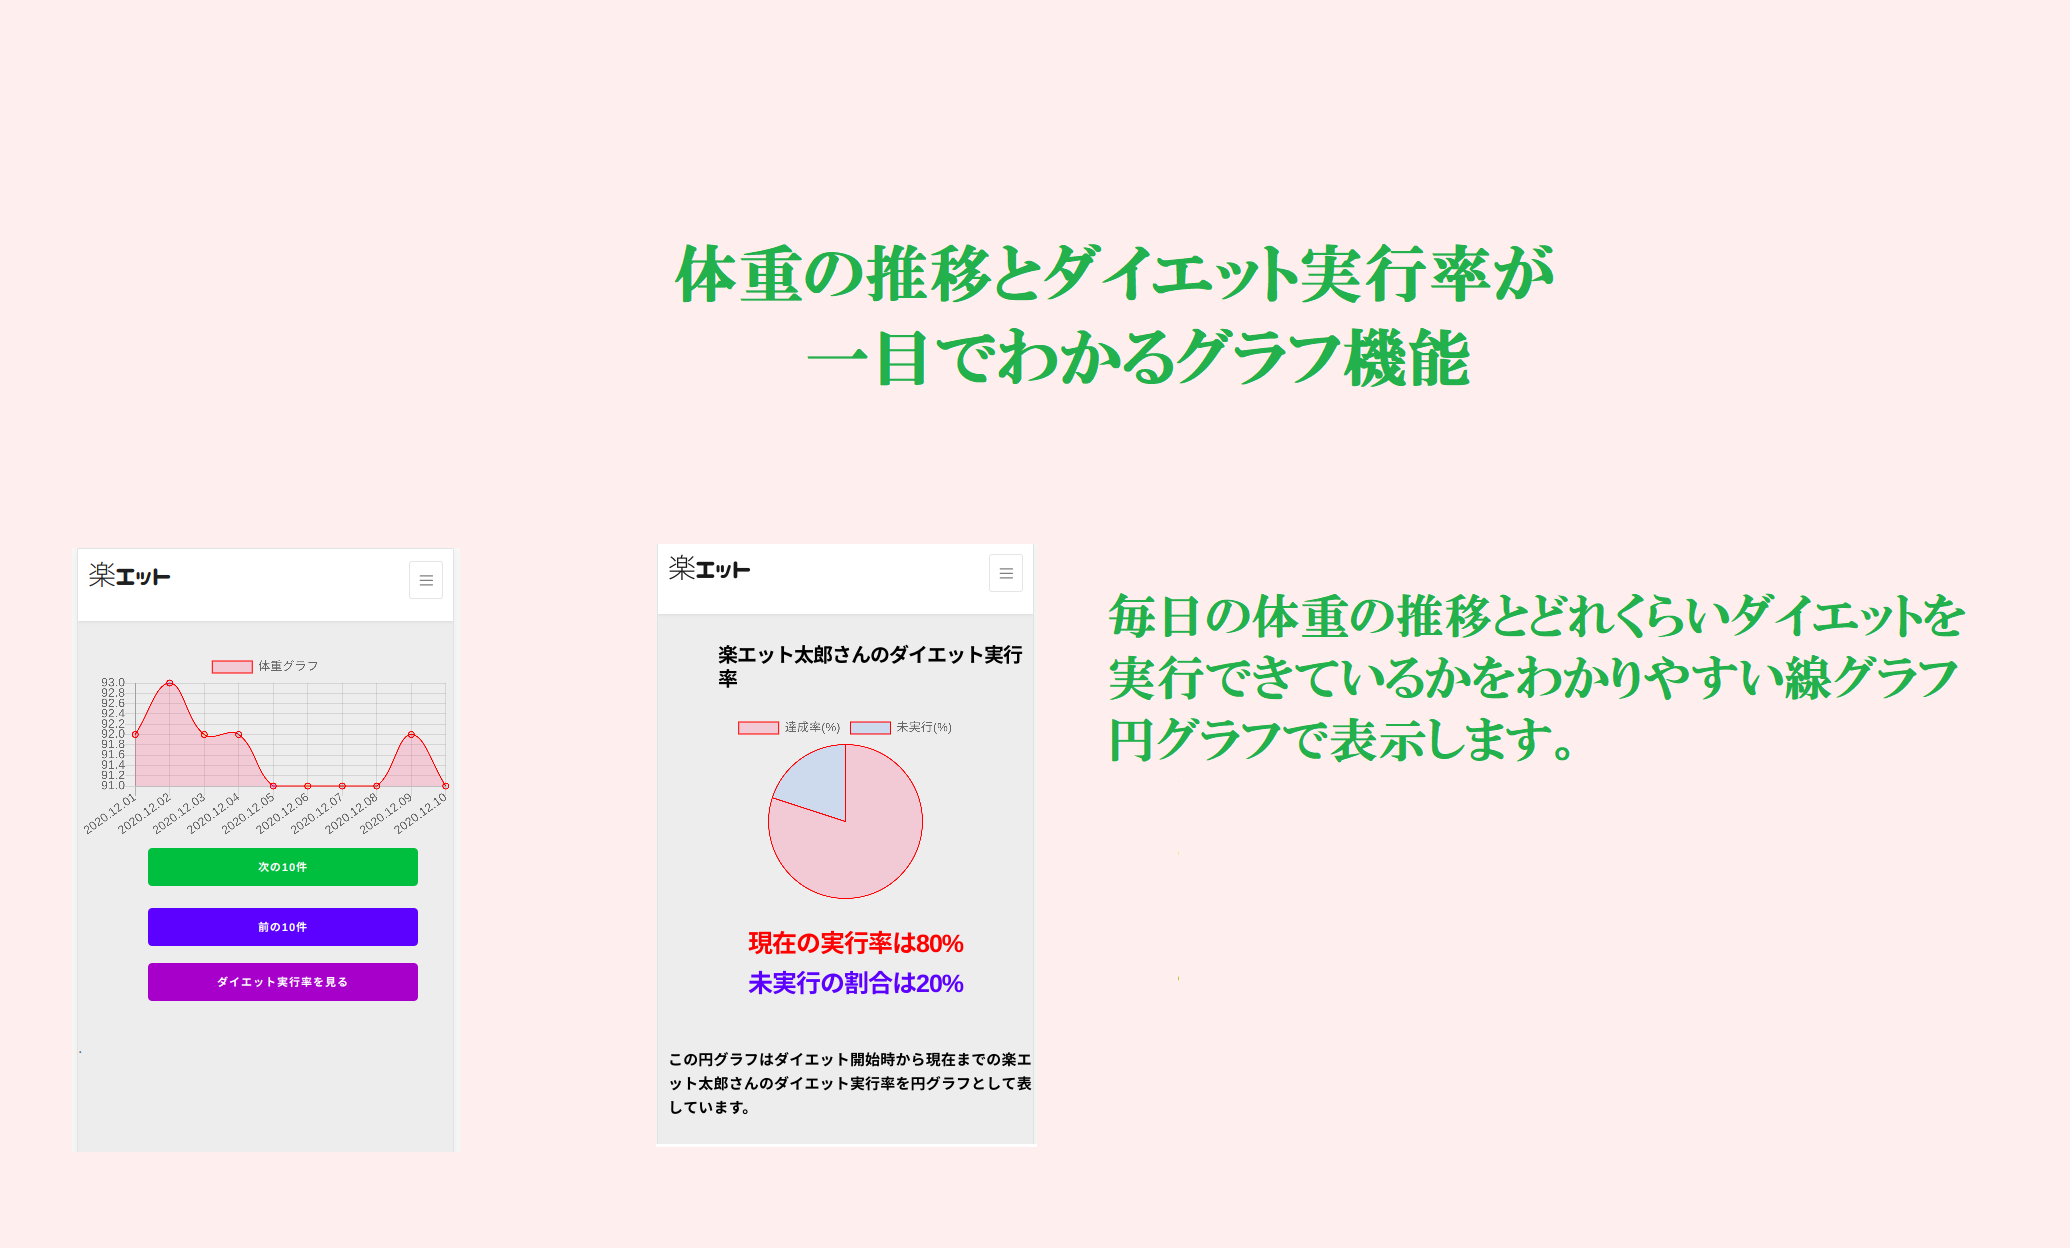
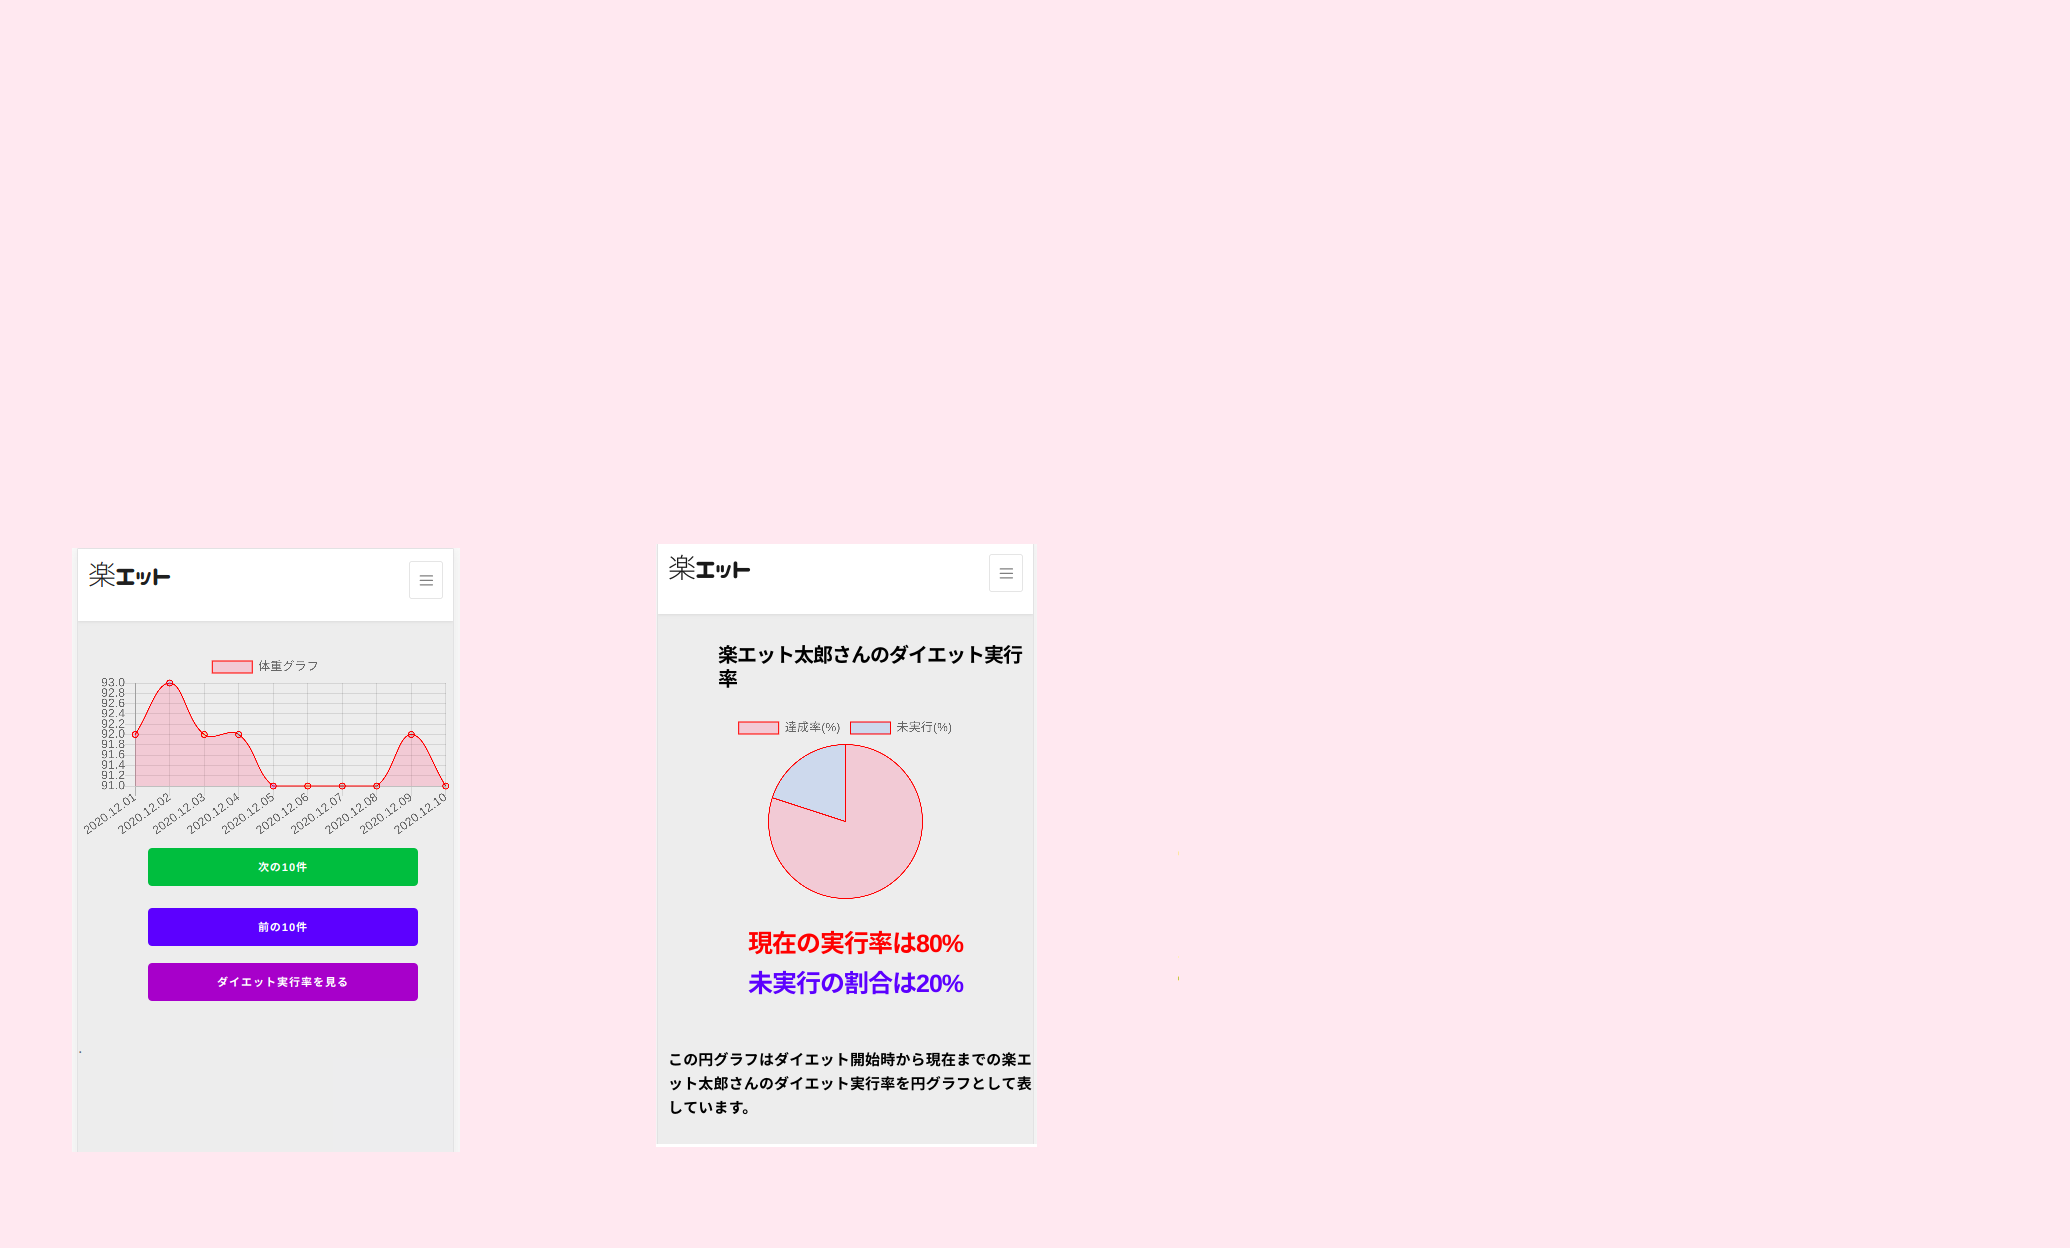
index5

Changed region(s): [[0.5256, 0.4688, 0.9585, 0.625], [0.3092, 0.1875, 0.7729, 0.3125]]

diff --git a/resources/views/index/indexlayout.blade.php b/resources/views/index/indexlayout.blade.php
@@ -35,8 +35,14 @@ $(function(){
    ScrollReveal().reveal('.dai2', { distance: '200px', origin: 'left', viewFactor: '0.8' });
   ScrollReveal().reveal('.img7',{ duration: '3000',delay:'10'});
   ScrollReveal().reveal('.dai1',{ duration: '3000',delay:'10'});
+  ScrollReveal().reveal('.dai2',{ duration: '3000',delay:'10'});
+  ScrollReveal().reveal('.dai3',{ duration: '3000',delay:'10'});
   ScrollReveal().reveal('.text1',{ duration: '3000',delay:'20'});
   ScrollReveal().reveal('.text1m',{ duration: '3000',delay:'20'});
+   ScrollReveal().reveal('.text2',{ duration: '3000',delay:'20'});
+  ScrollReveal().reveal('.text2m',{ duration: '3000',delay:'20'});
+   ScrollReveal().reveal('.text3',{ duration: '3000',delay:'20'});
+  ScrollReveal().reveal('.text3m',{ duration: '3000',delay:'20'});
   ScrollReveal().reveal('.img6',{ duration: '3000'});
   ScrollReveal().reveal('.dai',{ duration: '1900'});
   ScrollReveal().reveal('.start',{ duration: '1900'});

diff --git a/resources/views/index/index.blade.php b/resources/views/index/index.blade.php
@@ -17,4 +17,5 @@
 <p class="text2m">ダイエットの実行期間やどのようなダイエットが理想的なダイエットプランなのかをプラン診断を通してあなたにピッタリなダイエットプランを提案します</p>
 <h1 class="dai4">体重の推移とダイエット実行率がひとめでわかるグラフ機能</h1>
 <p class="text3">毎日の体重の推移とどれくらいダイエットを<br>実行できているかをわかりやすい線グラフ<br>円グラフで表示します</p>
+<h2 id="text3m">毎日の体重の推移とどれくらいダイエットを実行できているかをわかりやすい線グラフ円グラフで表示します</h2>
 @endsection
